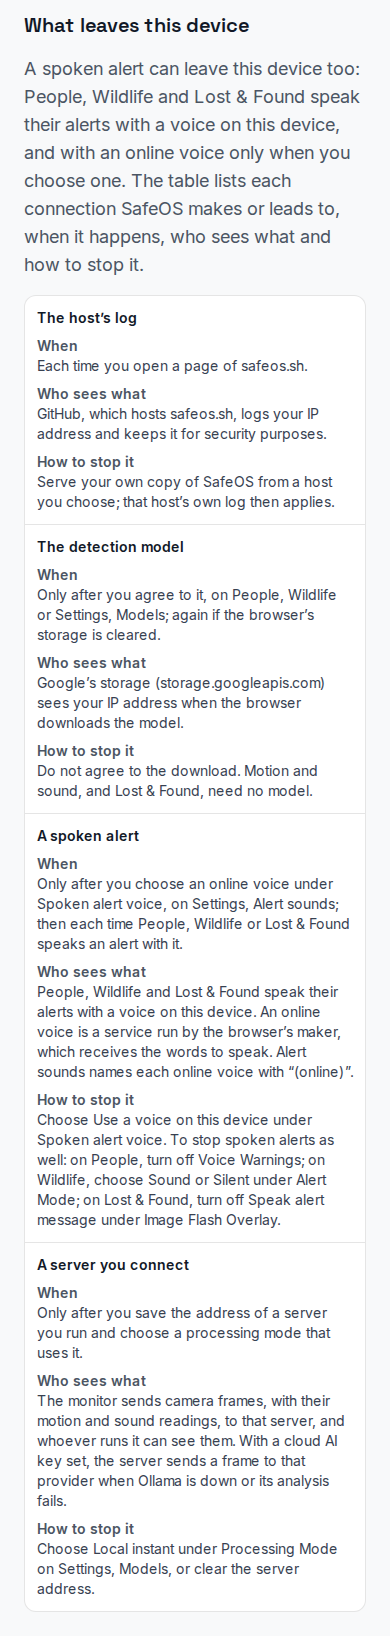
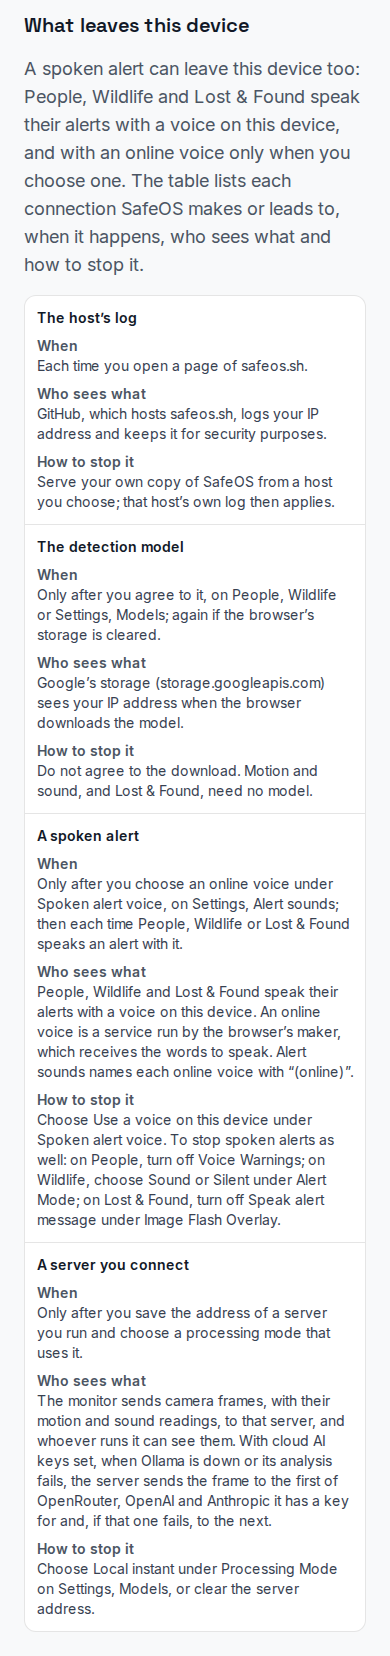
docs: refresh the connections table and blog pictures from Pictures run 46059739041, and add the pitch choices before and after

Changed region(s): [[0.0615, 0.0, 0.9231, 0.9976]]

diff --git a/docs/pictures/pr-69/README.md b/docs/pictures/pr-69/README.md
@@ -1,18 +1,21 @@
 # Privacy, storage and model words, and the connections table
 
-Paired captures from CI, [Pictures run 46043152474](https://github.com/framerslab/safeos/actions/runs/46043152474).
-The before build uses the base, `b53259885dbdb3ccbe955810227400a8071877c0`. The after build is for the pull request head `0d2431edd0dafb096974beba71e2976b4bd10b06`.
-Each picture is cut from the run's full-page capture of the page it names, at the width and look it names.
+Paired captures from CI, cut from each run's full-page capture of the page they name, at the width and look they name.
+
+- [Pictures run 46043152474](https://github.com/framerslab/safeos/actions/runs/46043152474): the before build is the base, `b53259885dbdb3ccbe955810227400a8071877c0`; the after build is `0d2431edd0dafb096974beba71e2976b4bd10b06`. Every picture below but those named next comes from this run.
+- [Pictures run 46059739041](https://github.com/framerslab/safeos/actions/runs/46059739041), after build `84eee246406ce7dc16d447418e3be60b159565e7`: the after pictures of the privacy page's connections table (the cloud providers a server can send a frame to) and of the blog post.
+- [Pictures run 46059775380](https://github.com/framerslab/safeos/actions/runs/46059775380) on `b53259885dbdb3ccbe955810227400a8071877c0` and [Pictures run 46059763085](https://github.com/framerslab/safeos/actions/runs/46059763085) on `84eee246406ce7dc16d447418e3be60b159565e7`, each run by hand for /settings/detection/: Settings, Detection, the pitch choices, before and after.
+
 The open storage card on the home page is captured only for the pull request head.
 
 | View | Before | After |
 | --- | --- | --- |
 | Privacy page, where the saved pictures are kept, 1280 px, dark look | [Before](before/privacy-storage-1280-dark.png) | [After](after/privacy-storage-1280-dark.png) |
 | Privacy page, where the saved pictures are kept, 1280 px, light look | [Before](before/privacy-storage-1280-light.png) | [After](after/privacy-storage-1280-light.png) |
-| Privacy page, what leaves this device (a spoken alert in an online voice you choose), 1280 px, dark look | [Before](before/privacy-connections-1280-dark.png) | [After](after/privacy-connections-1280-dark.png) |
-| Privacy page, what leaves this device (a spoken alert in an online voice you choose), 1280 px, light look | [Before](before/privacy-connections-1280-light.png) | [After](after/privacy-connections-1280-light.png) |
-| Privacy page, what leaves this device (a spoken alert in an online voice you choose), 390 px, light look | [Before](before/privacy-connections-390-light.png) | [After](after/privacy-connections-390-light.png) |
-| Privacy page, what leaves this device (a spoken alert in an online voice you choose), 390 px, dark look | [Before](before/privacy-connections-390-dark.png) | [After](after/privacy-connections-390-dark.png) |
+| Privacy page, what leaves this device (a spoken alert in an online voice you choose; the cloud providers a server can send a frame to), 1280 px, dark look | [Before](before/privacy-connections-1280-dark.png) | [After](after/privacy-connections-1280-dark.png) |
+| Privacy page, what leaves this device (a spoken alert in an online voice you choose; the cloud providers a server can send a frame to), 1280 px, light look | [Before](before/privacy-connections-1280-light.png) | [After](after/privacy-connections-1280-light.png) |
+| Privacy page, what leaves this device (a spoken alert in an online voice you choose; the cloud providers a server can send a frame to), 390 px, light look | [Before](before/privacy-connections-390-light.png) | [After](after/privacy-connections-390-light.png) |
+| Privacy page, what leaves this device (a spoken alert in an online voice you choose; the cloud providers a server can send a frame to), 390 px, dark look | [Before](before/privacy-connections-390-dark.png) | [After](after/privacy-connections-390-dark.png) |
 | Home, the detection diagram and cards (graphics chip or processor; Lost and Found up to twice a second), 1280 px, dark look | [Before](before/home-detection-1280-dark.png) | [After](after/home-detection-1280-dark.png) |
 | Home, the detection diagram and cards (graphics chip or processor; Lost and Found up to twice a second), 1280 px, light look | [Before](before/home-detection-1280-light.png) | [After](after/home-detection-1280-light.png) |
 | Home, the open storage card, 1440 px, dark look | Not captured for the base | [After](after/home-storage-open-1440-dark.png) |
@@ -21,6 +24,8 @@ The open storage card on the home page is captured only for the pull request hea
 | About, How It Works, step 4, 1280 px, light look | [Before](before/about-how-it-works-1280-light.png) | [After](after/about-how-it-works-1280-light.png) |
 | Blog, How SafeOS Guardian works, from the check to the storage, with the lines its code links open, 1280 px, dark look | [Before](before/blog-1280-dark.png) | [After](after/blog-1280-dark.png) |
 | Blog, How SafeOS Guardian works, from the check to the storage, with the lines its code links open, 1280 px, light look | [Before](before/blog-1280-light.png) | [After](after/blog-1280-light.png) |
+| Settings, Detection, the pitch choices under Audio Frequency Filtering, 1280 px, dark look | [Before](before/settings-detection-pitches-1280-dark.png) | [After](after/settings-detection-pitches-1280-dark.png) |
+| Settings, Detection, the pitch choices under Audio Frequency Filtering, 1280 px, light look | [Before](before/settings-detection-pitches-1280-light.png) | [After](after/settings-detection-pitches-1280-light.png) |
 
 ## SHA-256
 
@@ -29,13 +34,13 @@ The open storage card on the home page is captured only for the pull request hea
 - `8074f858d6fd898a9421fe46a58f019a92332f8d85cb6fc9062ce528e830686d  before/privacy-storage-1280-light.png`
 - `efd40b4a67ead08d461b69814606c31790aac12af0483d6c7a3ba0f7c2990e23  after/privacy-storage-1280-light.png`
 - `45cd79632e32acfe16a0217da1136074a0217647ba3a811f98b14f7b4c7a8d3c  before/privacy-connections-1280-dark.png`
-- `e463baa3ace44adbc1d60ab66dbab685270ed315260e1874573a7d4d61950efe  after/privacy-connections-1280-dark.png`
+- `97afd85be675e49d685c5cb04c7db0db8932fe604948e9f4bca1230324be796e  after/privacy-connections-1280-dark.png`
 - `03249a9d75c9e08500cb5d712a587b6beef4a6a07c65f445e3bf48cf6649cc4e  before/privacy-connections-1280-light.png`
-- `411fb90738a481ef1fa17329fa74a5b4a592a82b6d6f1112fa3cb8a4927b7668  after/privacy-connections-1280-light.png`
+- `5689b48fcdfe8326f7c73b93c2978544419ec3bd190c2f449dae91d1742b5ec5  after/privacy-connections-1280-light.png`
 - `80ff24fe614e965f38434d839a91971b494196d73815b161259f966287106186  before/privacy-connections-390-light.png`
-- `499a25d7fde46b2052f57c34147d47d791133d4611ea35e37dfc4476ddf0dce4  after/privacy-connections-390-light.png`
+- `b67667c1c426a2eb7a4dfba206f7a1881e15f9609a5807862a45baf36f9c86d3  after/privacy-connections-390-light.png`
 - `c76e138b1b082df830b6bf932e545354f7e8139d8ce8606bca721add10e8c54e  before/privacy-connections-390-dark.png`
-- `c296fad3676bd881a1e613cd92ffef5ea9ef97f1fa0dd8564396ffc9bccc9379  after/privacy-connections-390-dark.png`
+- `1d2623ed38079104d9d32ce4eb700d9784bcfb588b4db8856df3df601584af39  after/privacy-connections-390-dark.png`
 - `da68125b8154092afb2ea2512ffb34e5860e31b4c9568bbc196a51e402da74bc  before/home-detection-1280-dark.png`
 - `03a960fc29bd8f6ed749613fb81f20a1cca481fca9575d787c0edcb5d45390d0  after/home-detection-1280-dark.png`
 - `c131a49637484f07c8cf1fa3bdeddaca2819415a78f73ea8e9867a24980d6576  before/home-detection-1280-light.png`
@@ -47,6 +52,10 @@ The open storage card on the home page is captured only for the pull request hea
 - `112b8d0f579ccb1a786fac78dfa14e50b8e91f895f4a905fc0cb1ee03a236b28  before/about-how-it-works-1280-light.png`
 - `f9c31be6c8cd037aaa7f2f0ff7a953ae04203f999d322b4320b4104f2f11bc89  after/about-how-it-works-1280-light.png`
 - `9db3e719468647c74564ca478256a1fab80c8bc49dc07f6156e18418867440c7  before/blog-1280-dark.png`
-- `8a6143704afee4af875cbff5568960b7f3a5b00c2a26df196c2d842088137492  after/blog-1280-dark.png`
+- `14d47fdb524dc957c21f82c9bf54a67a21dc45658e729fda9bb4ea147c22f433  after/blog-1280-dark.png`
 - `9739e83573a7c2efa22cbe419d6991205ef3f85a43b60baf40f440518393d10d  before/blog-1280-light.png`
-- `20a2918bf477057dd48d1bff3aadb8932f0e1eeba8344235364253aa14a73405  after/blog-1280-light.png`
+- `036e95cf5bbfc73e003e5847508f76b97d1232028aa30641d9368c0c51aa2637  after/blog-1280-light.png`
+- `9181be8c5b3257ca23583d310a444dedb038a6ac50552dad2b517a24cff38d58  before/settings-detection-pitches-1280-dark.png`
+- `1f77fc173d6c5f9e96bc8898bb53b48d28cca9fb742899d28ef29d07cf5bbe3e  after/settings-detection-pitches-1280-dark.png`
+- `e91ff27260b1530d4f600f971b639542e7817baa8c8fee16f43a80b71a10cc02  before/settings-detection-pitches-1280-light.png`
+- `93ace72a92160a52e91846e6a3beb8fe30bd7d82ea0382a31ec00c6c5e9600ae  after/settings-detection-pitches-1280-light.png`
